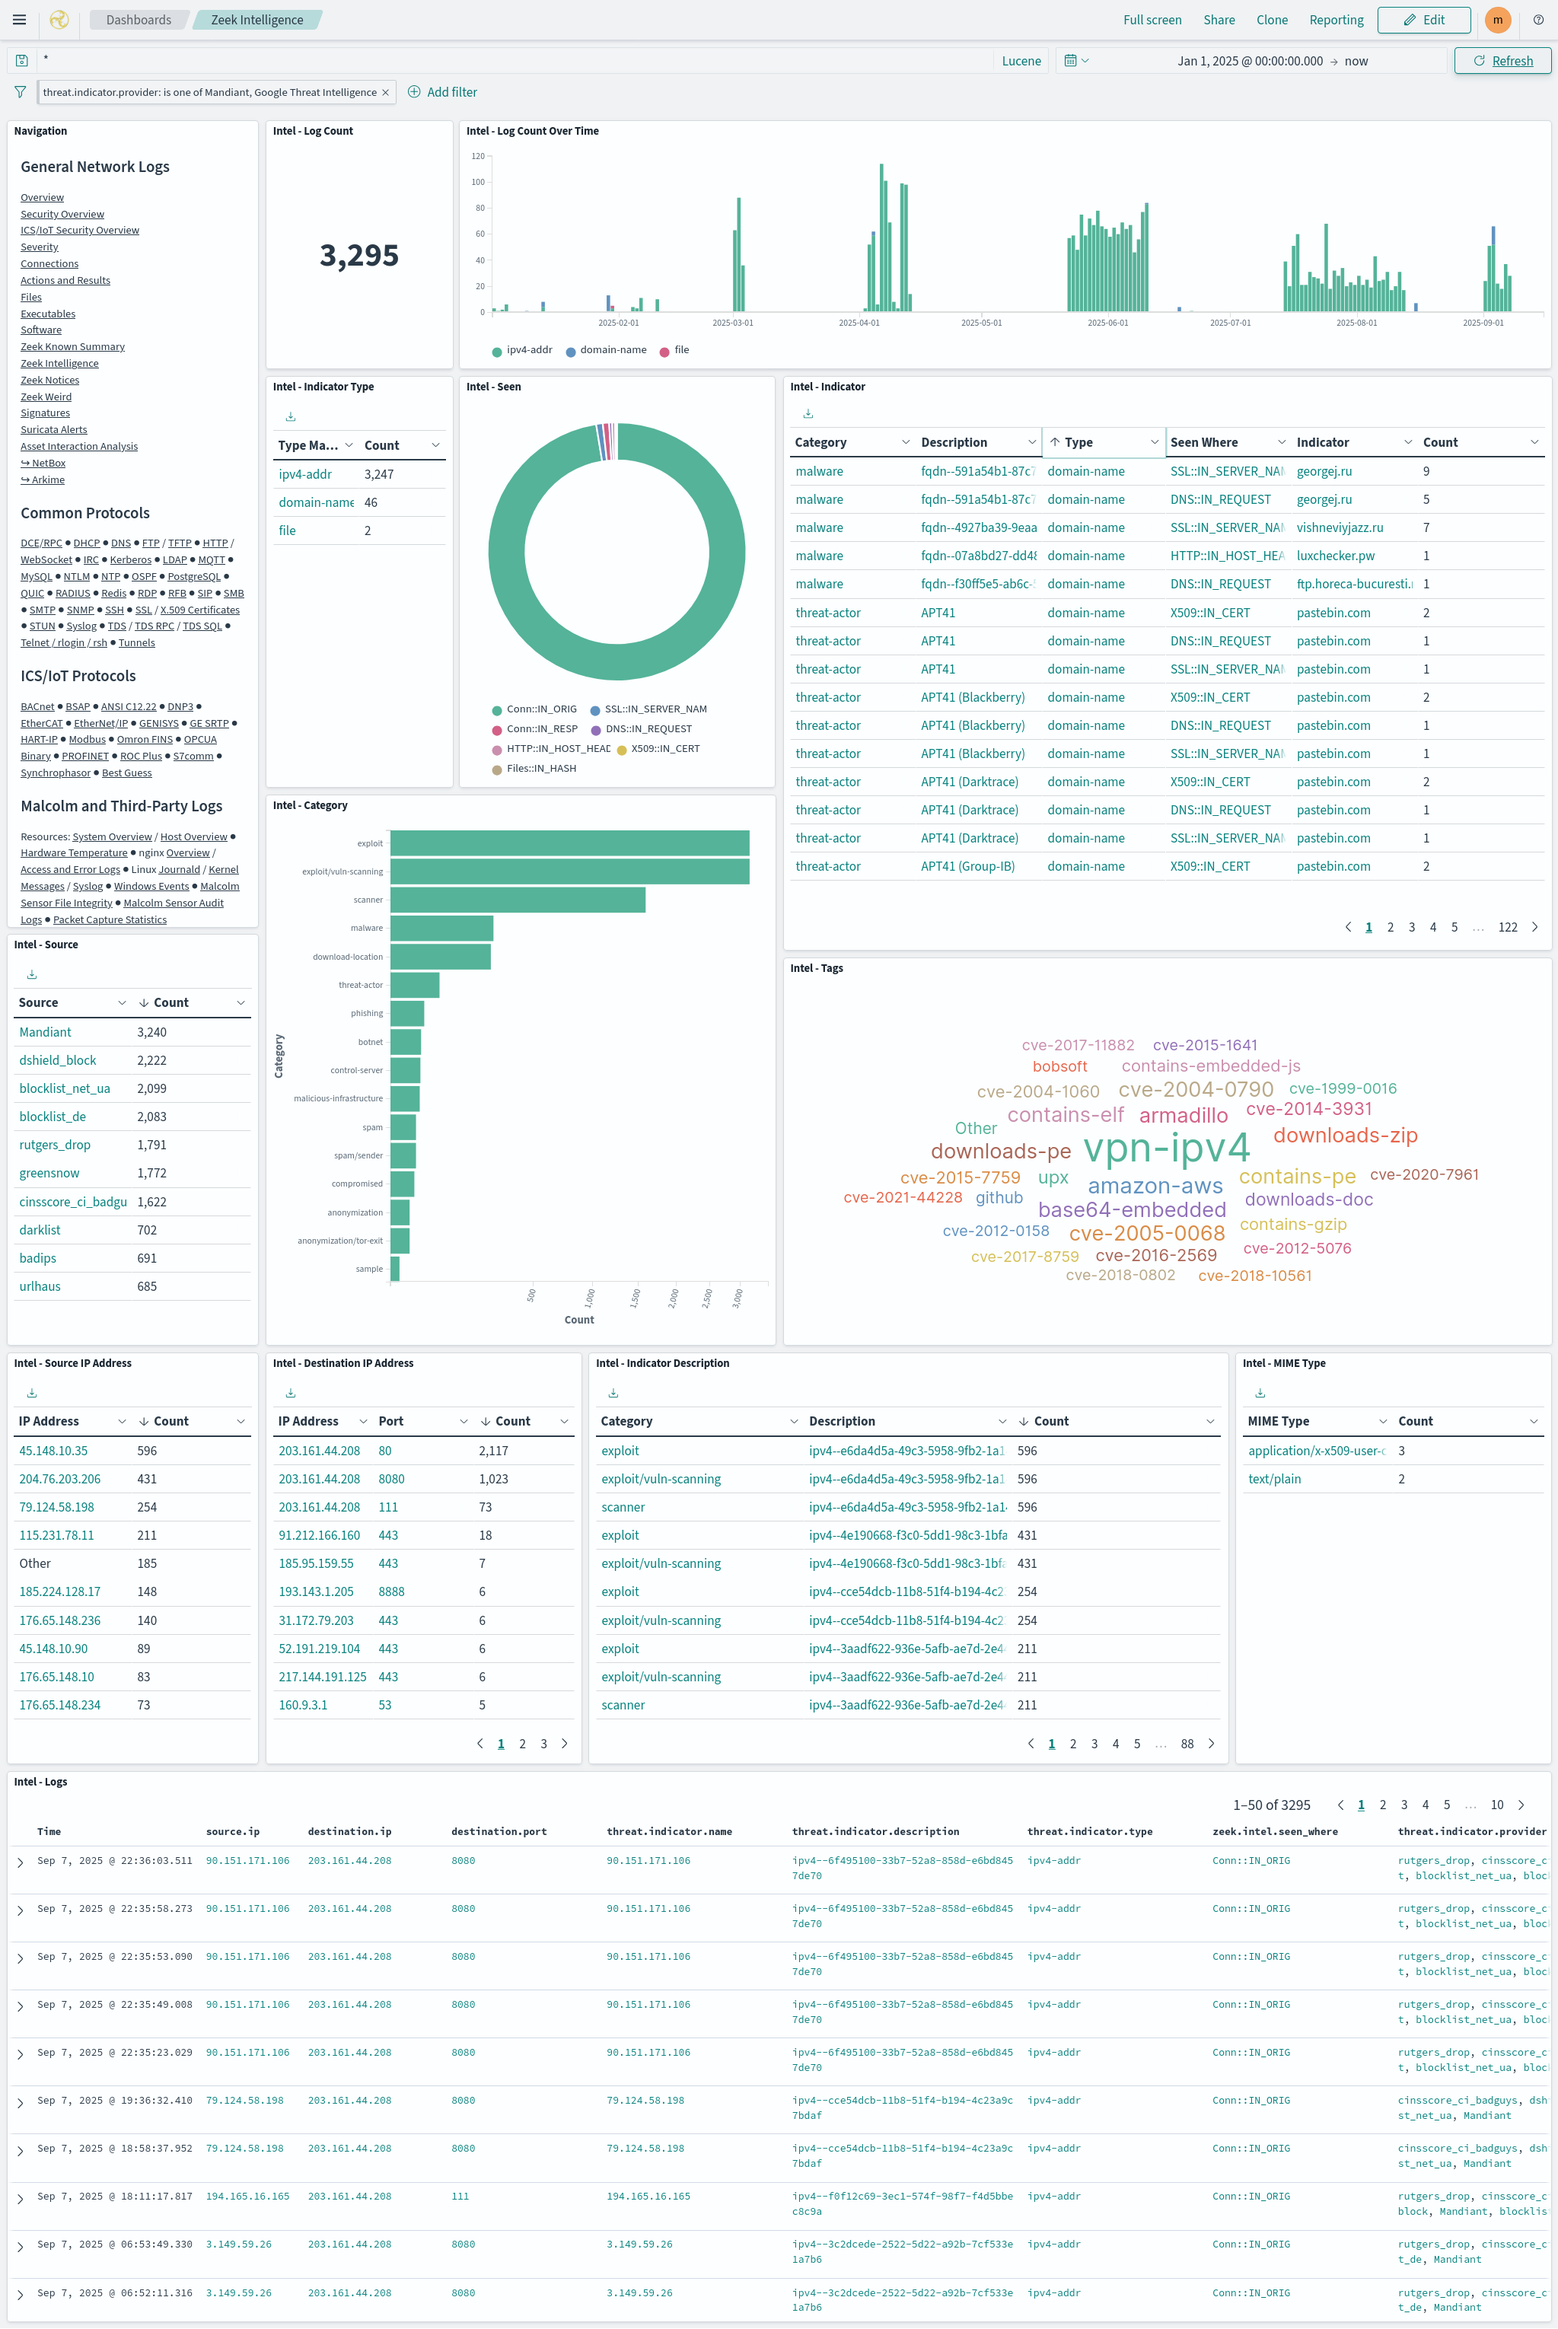
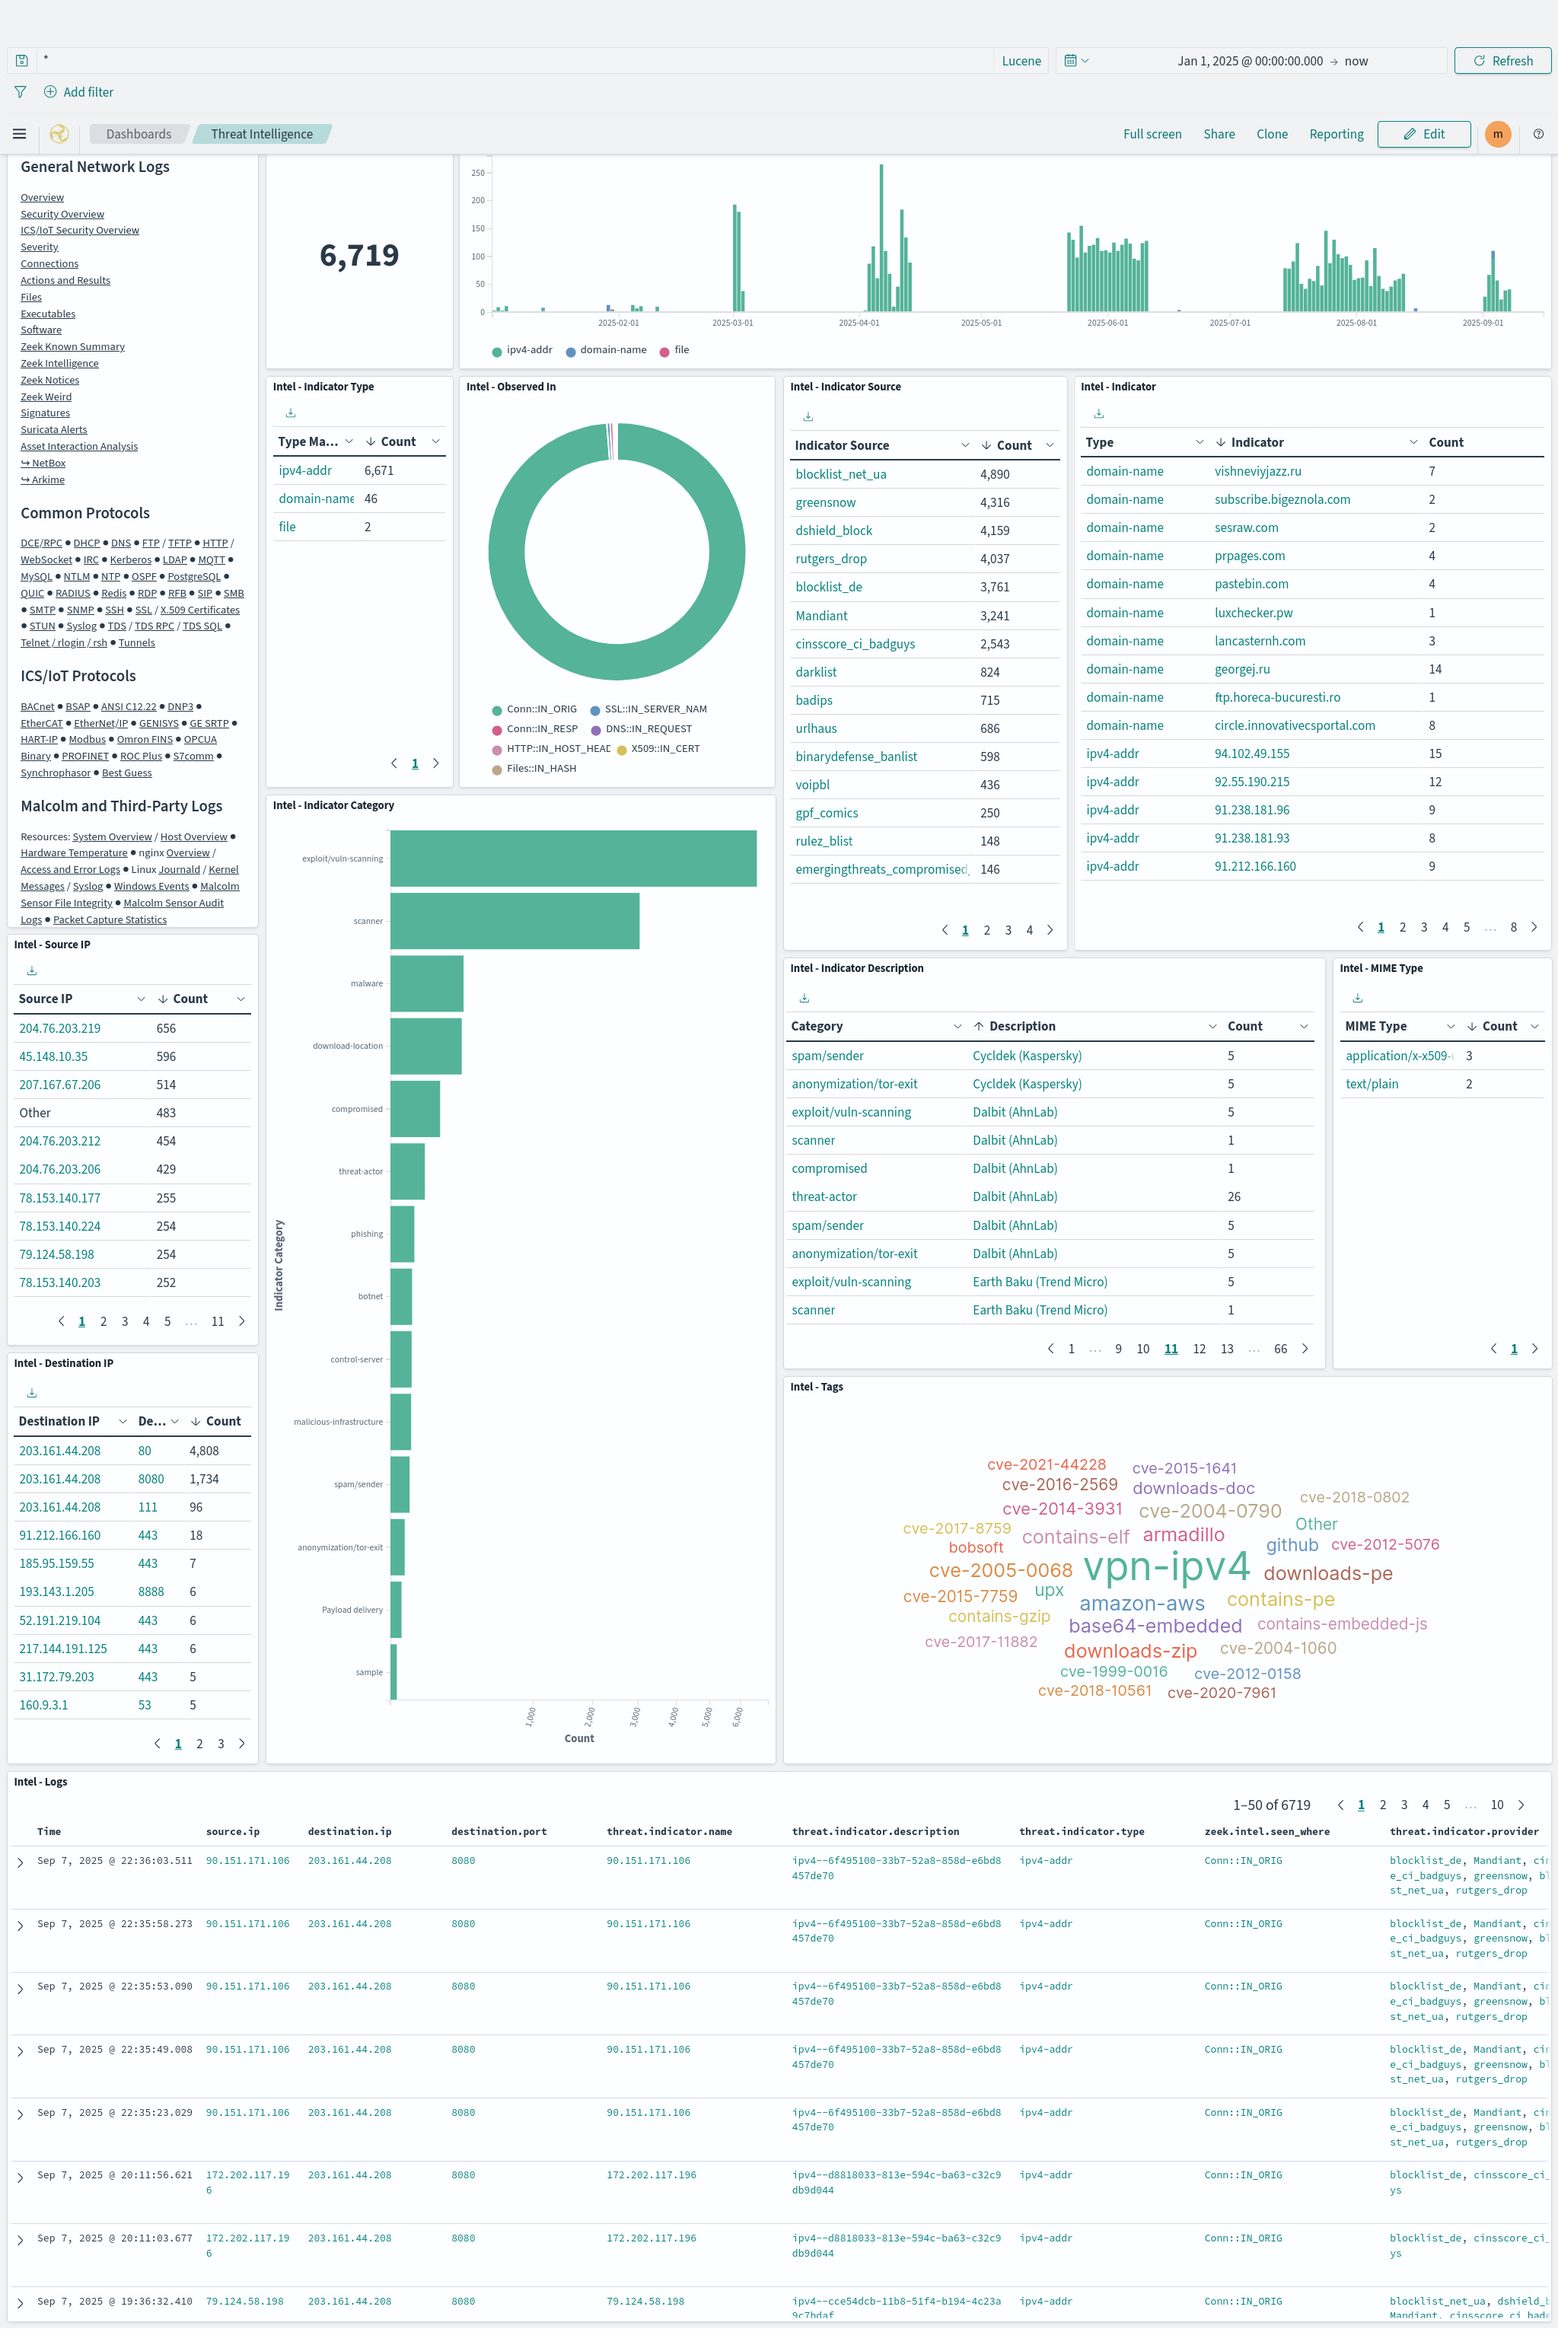
cisagov/Malcolm#758; Work in Progress for google threat intelligence

diff --git a/dashboards/dashboards/navigation.md b/dashboards/dashboards/navigation.md
@@ -9,9 +9,9 @@
 [Executables](#/dashboard/0a490422-0ce9-44bf-9a2d-19329ddde8c3)
 [Software](#/dashboard/87d990cc-9e0b-41e5-b8fe-b10ae1da0c85)
 [Zeek Known Summary](#/dashboard/89d1cc50-974c-11ed-bb6b-3fb06c879b11)
-[Zeek Intelligence](#/dashboard/36ed695f-edcc-47c1-b0ec-50d20c93ce0f)
 [Zeek Notices](#/dashboard/f1f09567-fc7f-450b-a341-19d2f2bb468b)
 [Zeek Weird](#/dashboard/1fff49f6-0199-4a0f-820b-721aff9ff1f1)
+[Threat Intelligence](#/dashboard/36ed695f-edcc-47c1-b0ec-50d20c93ce0f)
 [Signatures](#/dashboard/665d1610-523d-11e9-a30e-e3576242f3ed)
 [Suricata Alerts](#/dashboard/5694ca60-cbdf-11ec-a50a-5fedd672f5c5)
 [Asset Interaction Analysis](#/dashboard/677ee170-809e-11ed-8d5b-07069f823b6f)
